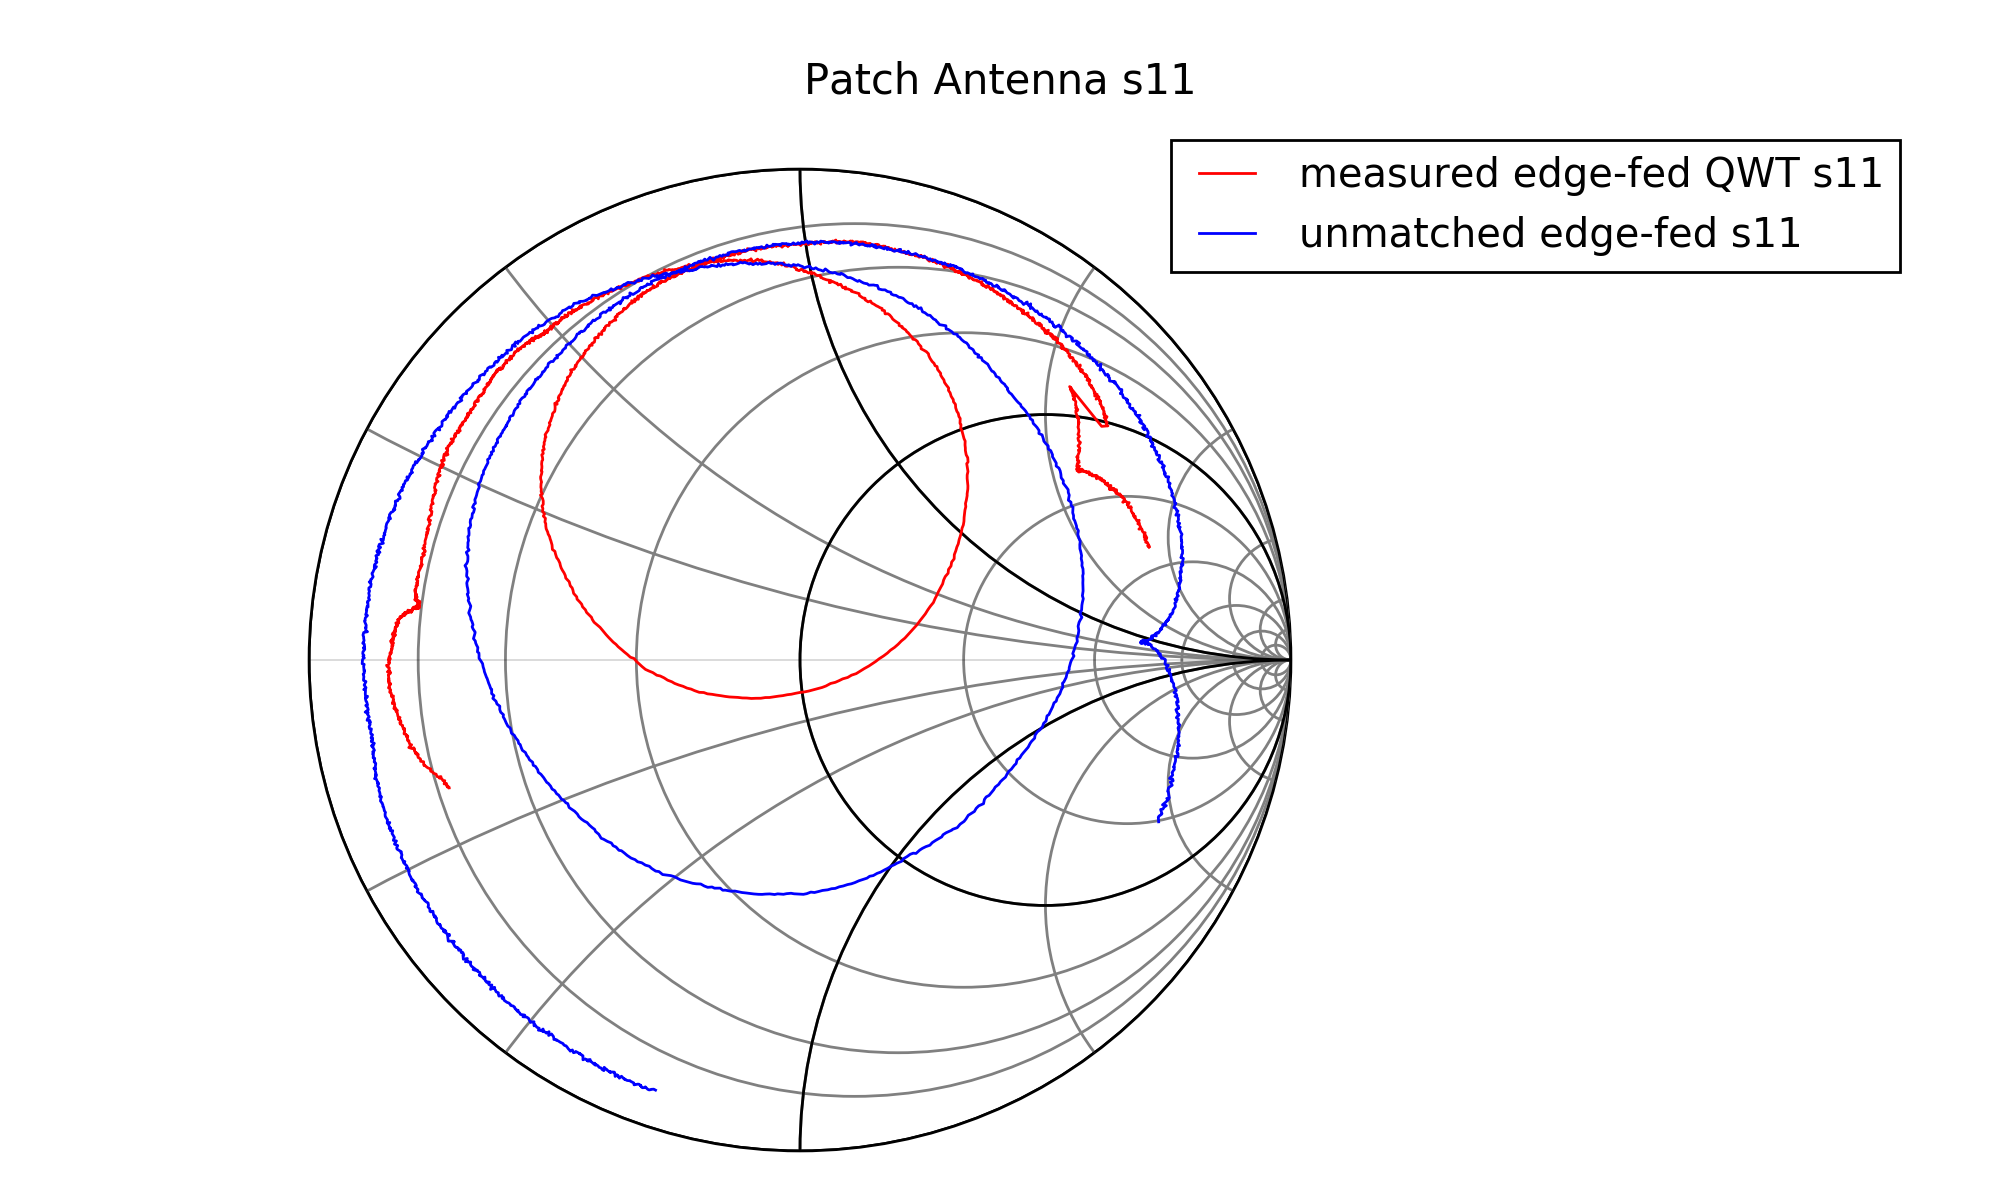
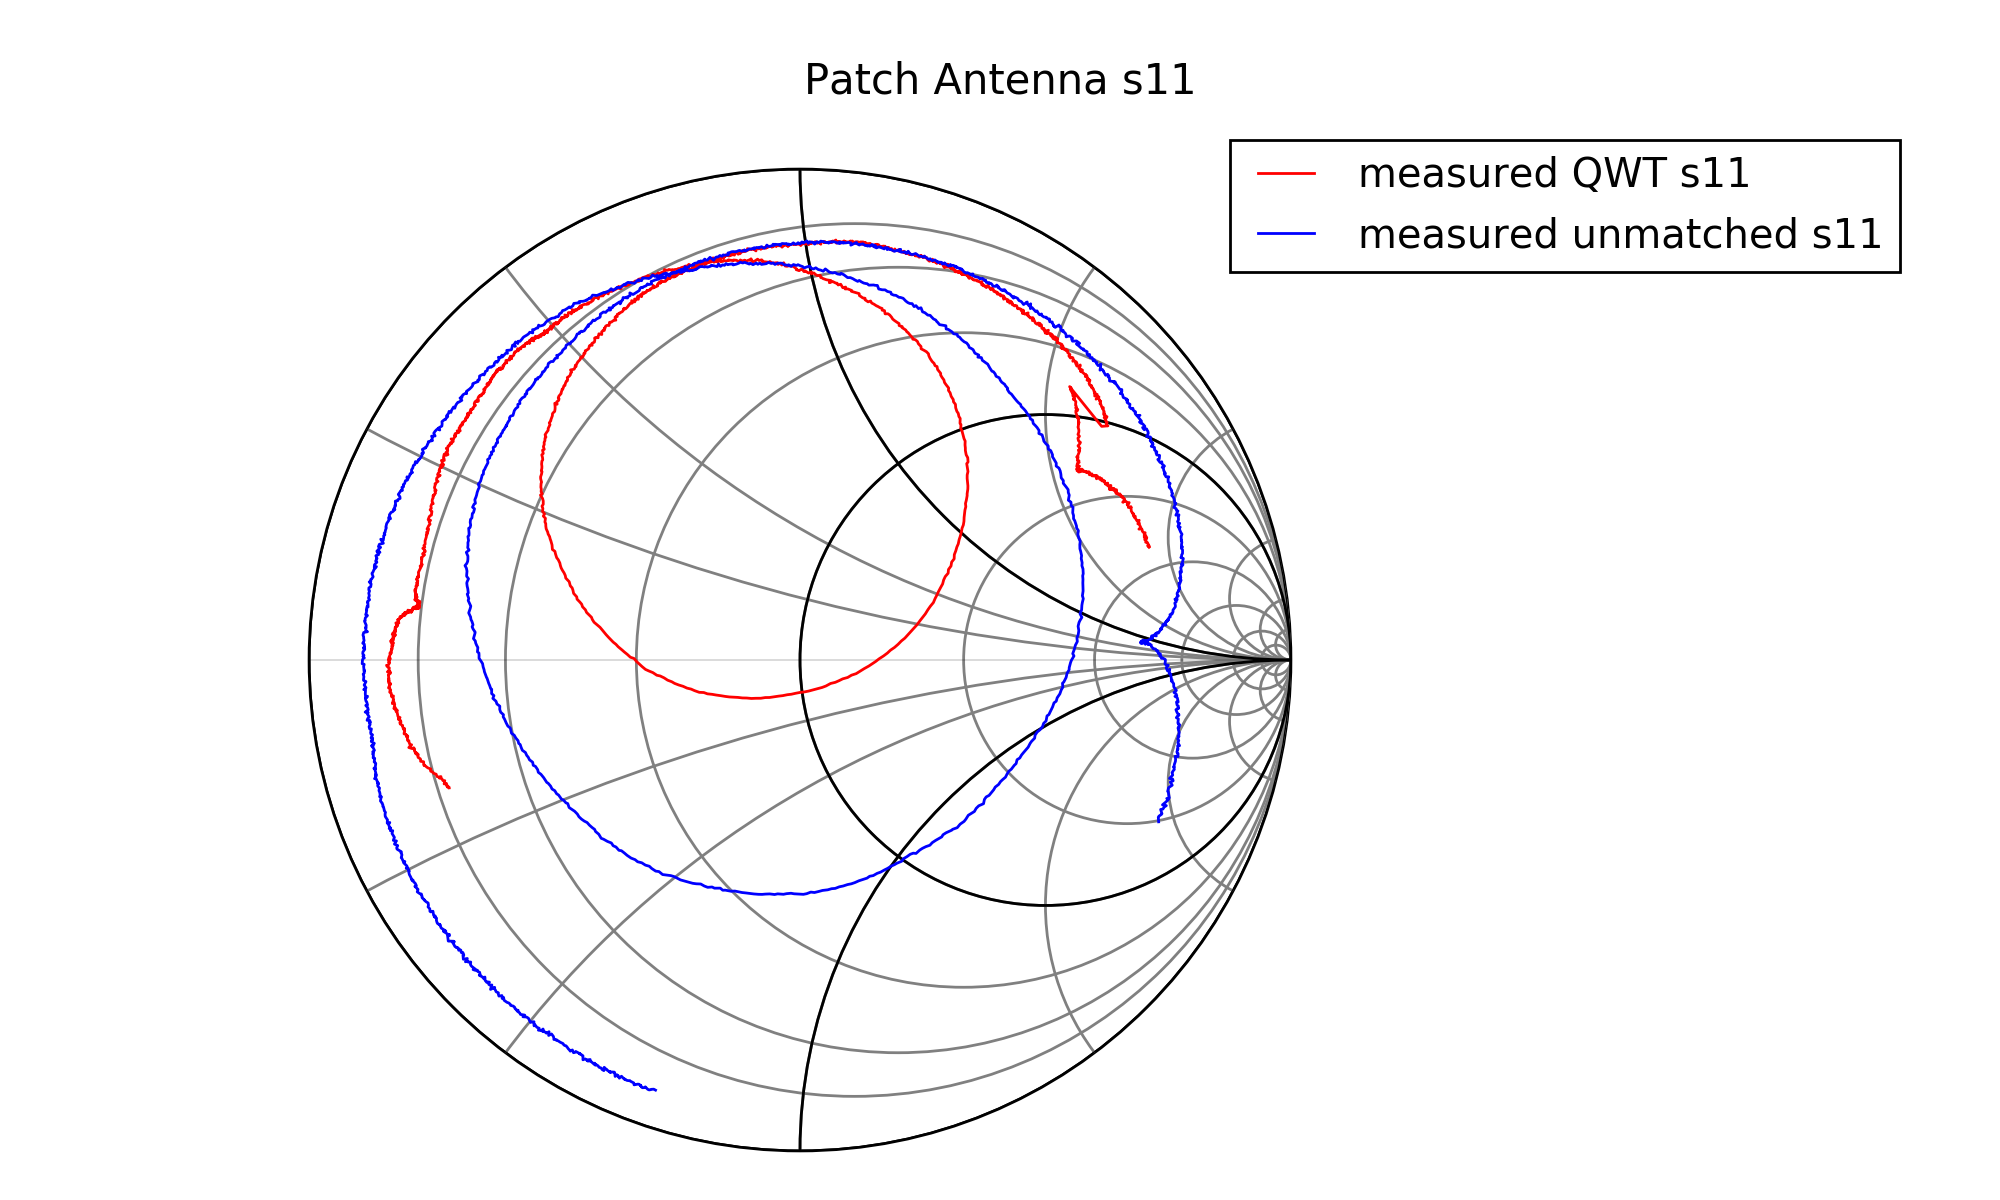
lab 9

Changed region(s): [[0.651, 0.1233, 0.93, 0.2158]]

diff --git a/Students/hongpan0507/Lab9/plotting.py b/Students/hongpan0507/Lab9/plotting.py
@@ -13,11 +13,20 @@ n = 0
 n += 1
 fig = plot.figure(n, figsize=(10, 6), dpi=80, facecolor='w')
 fig.suptitle("Patch Antenna s11", fontsize=15, y=0.95)
-meas_rf_n1.plot_s_smith(label='measured edge-fed QWT s11', color='r')
-meas_rf_n2.plot_s_smith(label='unmatched edge-fed s11', color='b')
+meas_rf_n1.plot_s_smith(label='measured QWT s11', color='r')
+meas_rf_n2.plot_s_smith(label='measured unmatched s11', color='b')
 plot.subplots_adjust(left=0, right=0.8, top=0.9, bottom=0, hspace=0, wspace=0)
 plot.legend(bbox_to_anchor=(1.2, 1))  # adjust box location
 plot.savefig('smith_chart1', dpi=200, facecolor='w', edgecolor='k')
+
+n += 1
+fig = plot.figure(n, figsize=(10, 6), dpi=80, facecolor='w')
+fig.suptitle("Patch Antenna |s11|", fontsize=15, y=0.95)
+meas_rf_n1.plot_s_db(label='measured QWT |s11|', color='r')
+meas_rf_n2.plot_s_db(label='measured unmatched |s11|', color='b')
+plot.subplots_adjust(left=0.1, right=0.9, top=0.9, bottom=0.1, hspace=0, wspace=0)
+plot.legend(bbox_to_anchor=(1, 0.2))  # adjust box location
+plot.savefig('s11_mag1', dpi=200, facecolor='w', edgecolor='k')
 
 n += 1
 fig = plot.figure(n, figsize=(10, 6), dpi=80, facecolor='w')
@@ -32,18 +41,9 @@ n += 1
 fig = plot.figure(n, figsize=(10, 6), dpi=80, facecolor='w')
 fig.suptitle("Patch Antenna |s11|", fontsize=15, y=0.95)
 meas_rf_n1.plot_s_db(label='measured edge-fed QWT |s11|', color='r')
-meas_rf_n2.plot_s_db(label='measured probe-fed unmatched |s11|', color='b')
-plot.subplots_adjust(left=0.1, right=0.9, top=0.9, bottom=0.1, hspace=0, wspace=0)
-plot.legend(bbox_to_anchor=(1, 0.2))  # adjust box location
-plot.savefig('s11_mag1', dpi=200, facecolor='w', edgecolor='k')
-
-n += 1
-fig = plot.figure(n, figsize=(10, 6), dpi=80, facecolor='w')
-fig.suptitle("Patch Antenna |s11|", fontsize=15, y=0.95)
-meas_rf_n1.plot_s_db(label='measured edge-fed QWT |s11|', color='r')
 sim_rf_n1.plot_s_db(label='simulated probe-fed |s11|', color='b')
 plot.subplots_adjust(left=0.1, right=0.9, top=0.9, bottom=0.1, hspace=0, wspace=0)
 plot.legend(bbox_to_anchor=(1, 0.2))  # adjust box location
 plot.savefig('s11_mag2', dpi=200, facecolor='w', edgecolor='k')
 
-# plot.show()
+plot.show()
